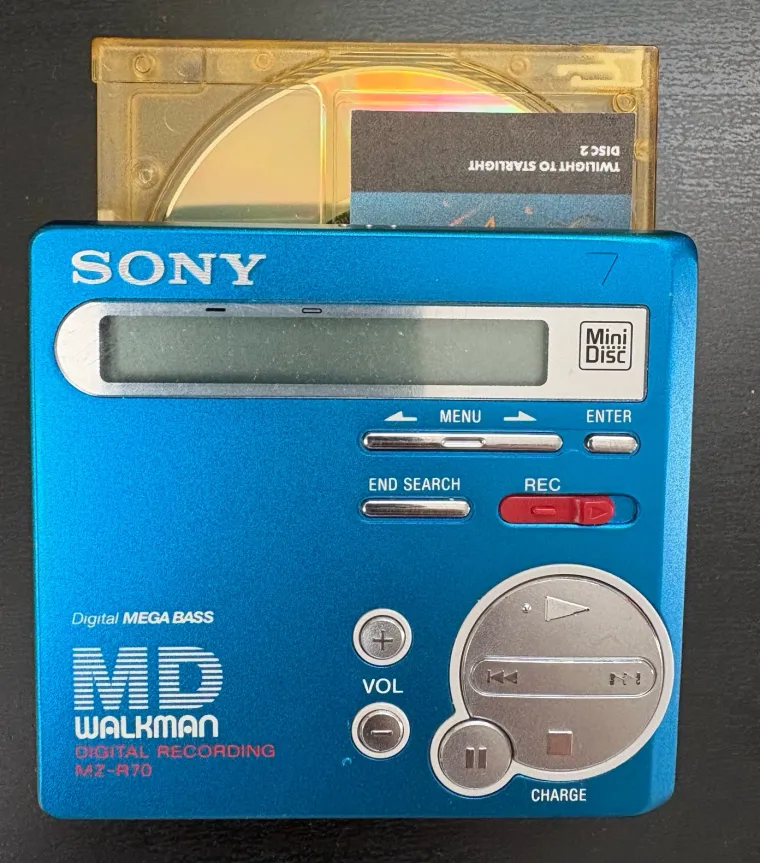
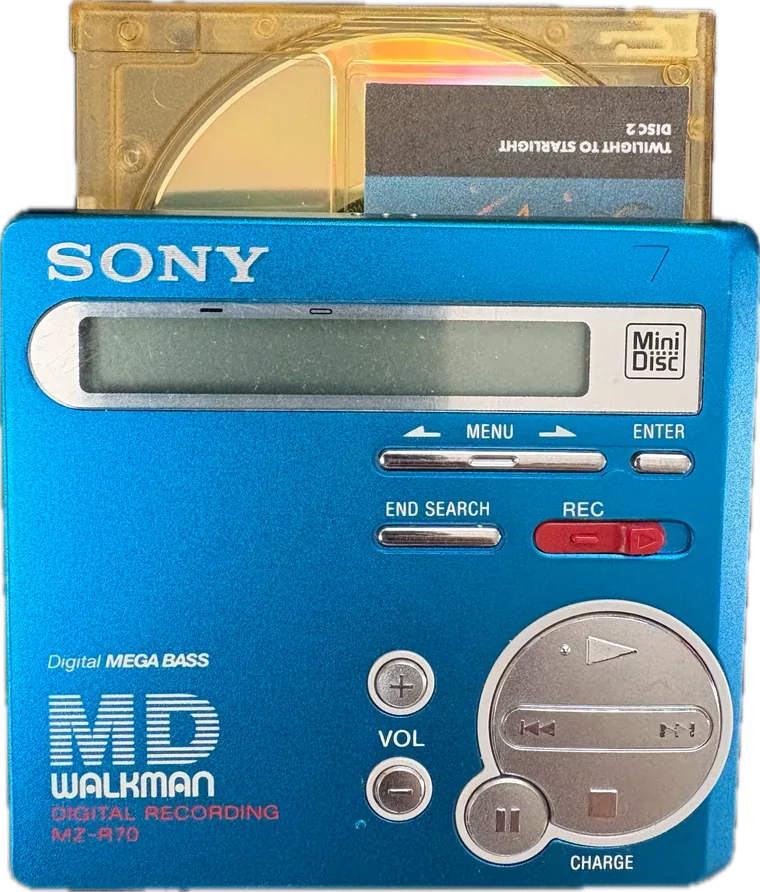
docs(site): cut-out photos, specs handwritten on a label card, no Watch
- The recorders, the disc stack and the blue MD 74 are cut out of their
  backgrounds and laid on the page with a shadow that follows their outline;
  the MD 74 lies on top of the screenshots. The photo with earbuds is gone.
- The spec row's drawn discs are replaced by the blank label card, filled in
  by hand in the same Reenie Beanie hand as the Hi-MD disc label.
- Miniamp is cut out of its desktop photo, just the two windows on white.
- The copy no longer mentions the Apple Watch, the hero's second line or the
  MPL / source-only note.

diff --git a/docs/index.html b/docs/index.html
@@ -28,7 +28,7 @@
 
   <link rel="preconnect" href="https://fonts.googleapis.com">
   <link rel="preconnect" href="https://fonts.gstatic.com" crossorigin>
-  <link rel="stylesheet" href="https://fonts.googleapis.com/css2?family=Antonio:wght@600;700&family=Fraunces:opsz,wght,SOFT,WONK@9..144,500..900,0..100,0..1&family=Libre+Caslon+Text:ital,wght@0,400;0,700;1,400&display=swap">
+  <link rel="stylesheet" href="https://fonts.googleapis.com/css2?family=Antonio:wght@600;700&family=Reenie+Beanie&family=Fraunces:opsz,wght,SOFT,WONK@9..144,500..900,0..100,0..1&family=Libre+Caslon+Text:ital,wght@0,400;0,700;1,400&display=swap">
   <link rel="stylesheet" href="style.css">
 </head>
 <body>
@@ -56,7 +56,7 @@
         <h1 class="hero__wordmark" id="hero-title">Hi-MD</h1>
         <div class="hero__copy">
           <p class="hero__lede">The music player for your own server.</p>
-          <p class="hero__sub">A native app for iPhone and Mac, for Navidrome and other Subsonic and OpenSubsonic servers. iPad, an Apple Watch remote and CarPlay come along too.</p>
+          <p class="hero__sub">A native app for iPhone and Mac, for Navidrome and other Subsonic and OpenSubsonic servers.</p>
         </div>
         <div class="hero__disc">
           <img src="assets/disc.webp" srcset="assets/disc-560.webp 560w, assets/disc.webp 960w" sizes="(min-width: 1100px) 420px, 62vw" width="960" height="960" alt="The Hi-MD disc: a clear MiniDisc cartridge, its label hand-lettered Hi-MD, balanced on one corner." fetchpriority="high">
@@ -67,7 +67,6 @@
           <p class="band__line">The Hi-MD music player for iPhone and Mac.</p>
           <div class="band__cta">
             <a class="button" href="https://github.com/ecliptik/hi-md">Get the source on GitHub</a>
-            <p class="band__note">Free and open source, MPL-2.0. Source only.<a class="fn" href="#note-source" aria-label="Footnote: source only">§</a></p>
           </div>
         </div>
       </div>
@@ -79,16 +78,16 @@
         <p class="release__kind">For immediate release</p>
         <h2 class="release__title" id="release-title">“Hi-MD” Established: The Minidisc Music Player Has Evolved into a Versatile Listening App for the Self-Hosted Era</h2>
         <div class="release__photos">
-          <figure class="print release__photo release__photo--blue">
+          <figure class="cutout release__photo release__photo--blue">
             <img src="assets/photo-walkman-disc.webp" width="760" height="863" loading="lazy" alt="A blue portable MiniDisc recorder with a gold disc, hand-labelled, half-way into its slot.">
           </figure>
-          <figure class="print release__photo release__photo--silver">
+          <figure class="cutout release__photo release__photo--silver">
             <img src="assets/photo-walkman-silver.webp" width="760" height="840" loading="lazy" alt="The same recorder in silver, loading a disc whose label is a hand-drawn illustration.">
           </figure>
         </div>
       </div>
       <div class="release__body">
-        <p><span class="dateline">October 2026 —</span> ecliptik today announced the development of “Hi-MD,” marking an evolution of the Minidisc music player into a versatile listening app that also delivers synced lyrics, an Apple Watch remote and a native Mac app, while maintaining playback compatibility with current Subsonic and Navidrome servers and keeping your music between your devices and your own server.</p>
+        <p><span class="dateline">October 2026 —</span> ecliptik today announced the development of “Hi-MD,” marking an evolution of the Minidisc music player into a versatile listening app that also delivers synced lyrics and a native Mac app, while maintaining playback compatibility with current Subsonic and Navidrome servers and keeping your music between your devices and your own server.</p>
         <p>With the introduction of “Hi-MD,” your Navidrome server is poised to meet the demands of a growing broadband era with a versatile player capable of playing a variety of content, such as music and lyrics, while maintaining high quality sound and resolution.</p>
         <dl class="release__points">
           <div>
@@ -118,9 +117,6 @@
         <figure class="shot shot--mac hall__a">
           <img src="assets/mac-lyrics.webp" width="1200" height="762" loading="lazy" alt="Hi-MD on Mac: Now Playing with synced lyrics beside the album cover.">
         </figure>
-        <figure class="shot hall__w">
-          <img src="assets/photo-walkman-earbuds.webp" width="900" height="1108" loading="lazy" alt="A blue portable MiniDisc recorder on a dark desk, with a pair of white earbuds plugged in.">
-        </figure>
         <figure class="shot shot--mac hall__d">
           <img src="assets/mac-albums.webp" width="1200" height="762" loading="lazy" alt="Hi-MD on Mac: the album grid.">
         </figure>
@@ -129,11 +125,11 @@
         </figure>
       </div>
       <div class="hall__text">
-        <h2 class="hall__title" id="hall-title">Now Hi-MD turns your iPhone, your Mac, and your Watch into a concert hall.</h2>
+        <h2 class="hall__title" id="hall-title">Now Hi-MD turns your iPhone, your Mac, and your car into a concert hall.</h2>
         <div class="hall__column">
           <p>Press play and two decks go to work. Songs meet without a gap, or crossfade into each other, and stream in their original quality on Wi-Fi<a class="fn" href="#note-quality" aria-label="Footnote: original quality">*</a> with a lighter format for each kind of network. A 10-band equalizer takes AutoEq corrections for your headphones, and loudness leveling keeps one album from shouting over the next.</p>
           <p>Lyrics scroll in time, karaoke-style. Discover deals out artist stations, Smart Shuffle, moods and your own Wrapped. Internet radio is a tap away. Album recommendations come from Apple Intelligence on the device, or from Anthropic or OpenAI with your own key,<a class="fn" href="#note-recs" aria-label="Footnote: recommendations">†</a> checked against MusicBrainz and your library.</p>
-          <p>On the Mac it is a native app, with a Music-style library, a full-window Now Playing, a menu bar player and a MiniPlayer that shrinks down to a bar of controls. On your wrist, the Apple Watch is the remote. In the car, CarPlay.<a class="fn" href="#note-carplay" aria-label="Footnote: CarPlay">‡</a></p>
+          <p>On the Mac it is a native app, with a Music-style library, a full-window Now Playing, a menu bar player and a MiniPlayer that shrinks down to a bar of controls. In the car, CarPlay.<a class="fn" href="#note-carplay" aria-label="Footnote: CarPlay">‡</a></p>
           <p class="signoff">The one and only sound of <span class="nowrap">Hi-MD.</span></p>
         </div>
       </div>
@@ -142,7 +138,7 @@
     <!-- Ad 4: more tunes -->
     <section class="tunes wrap" id="offline" aria-labelledby="tunes-title">
       <h2 class="tunes__title" id="tunes-title"><span>You could carry</span> <span>a lot more tunes.</span></h2>
-      <figure class="print tunes__photo">
+      <figure class="cutout tunes__photo">
         <img src="assets/photo-stack.webp" width="900" height="899" loading="lazy" alt="A stack of a dozen MiniDiscs in clear cases, their spines hand-labelled with album titles, an orange disc on top.">
       </figure>
       <div class="tunes__fan" role="group" aria-label="Five iPhone screens from Hi-MD, fanned out like a hand of cards">
@@ -186,40 +182,36 @@
       <div class="specs__scatter" role="group" aria-label="Three iPhone screens from Hi-MD and a blue MiniDisc, scattered on the page">
         <img class="s1" src="screenshots/ios/04-discover.jpg" width="553" height="1200" loading="lazy" alt="Discover: Recommended for You, Stations for You and Smart Shuffle.">
         <img class="s2" src="screenshots/ios/02-now-playing.jpg" width="553" height="1200" loading="lazy" alt="Now Playing, with the cover, controls and volume.">
-        <img class="s3 print" src="assets/photo-md74-blue.webp" width="760" height="727" loading="lazy" alt="A translucent blue MiniDisc with a hand-made label for Massive Attack’s Blue Lines.">
+        <img class="s3 cutout" src="assets/photo-md74-blue.webp" width="760" height="725" loading="lazy" alt="A translucent blue MiniDisc with a hand-made label for Massive Attack’s Blue Lines.">
         <img class="s4" src="screenshots/ios/01-home.jpg" width="553" height="1200" loading="lazy" alt="Home, with playlists and favourite songs.">
       </div>
       <div class="specs__head">
-        <h2 class="specs__title" id="specs-title">Five places to play.</h2>
-        <p class="specs__product">Hi-MD for iPhone, iPad, Mac, Apple Watch and CarPlay.</p>
+        <h2 class="specs__title" id="specs-title">Four places to play.</h2>
+        <p class="specs__product">Hi-MD for iPhone, iPad, Mac and CarPlay.</p>
         <p class="specs__servers">For Navidrome, Subsonic and OpenSubsonic servers.</p>
       </div>
-      <ul class="swatches">
-        <li class="swatch" style="--md: var(--md-pink)">
-          <span class="cart" aria-hidden="true"><span class="cart__num">2</span></span>
-          <p><strong>Decks.</strong> Gapless playback and real crossfades.</p>
-        </li>
-        <li class="swatch" style="--md: var(--md-aqua)">
-          <span class="cart" aria-hidden="true"><span class="cart__num">10</span></span>
-          <p><strong>Equalizer bands.</strong> AutoEq headphone corrections, and loudness leveling.</p>
-        </li>
-        <li class="swatch" style="--md: var(--md-lime)">
-          <span class="cart" aria-hidden="true"><span class="cart__num">4</span></span>
-          <p><strong>Minutes buffered ahead</strong> on both decks, with an offline cache behind them.</p>
-        </li>
-        <li class="swatch" style="--md: var(--md-gold)">
-          <span class="cart" aria-hidden="true"><span class="cart__num">5</span></span>
-          <p><strong>Places to play.</strong> iPhone, iPad, Mac, an Apple Watch remote, and CarPlay.<a class="fn" href="#note-carplay" aria-label="Footnote: CarPlay">‡</a></p>
-        </li>
-        <li class="swatch" style="--md: var(--md-violet)">
-          <span class="cart" aria-hidden="true"><span class="cart__num">27</span></span>
-          <p><strong>Requires iOS 27,</strong> macOS 27 or watchOS 27. Builds with Xcode 27 or later.</p>
-        </li>
-        <li class="swatch" style="--md: var(--md-smoke)">
-          <span class="cart" aria-hidden="true"><span class="cart__num">0</span></span>
-          <p><strong>Accounts and trackers.</strong> Library traffic goes straight to your server.</p>
-        </li>
-      </ul>
+      <figure class="labelcard">
+        <img src="assets/photo-label-card.webp" width="1000" height="1371" loading="lazy" alt="A MiniDisc label sheet, filled in by hand with Hi-MD's specifications.">
+        <figcaption class="labelcard__notes">
+          <p class="labelcard__title">Hi-MD</p>
+          <p class="labelcard__spine">spec sheet</p>
+          <ul class="labelcard__side labelcard__side--a" aria-label="Side A">
+            <li class="labelcard__head">Side A</li>
+            <li>2 decks, gapless</li>
+            <li class="skip-line">real crossfades</li>
+            <li class="skip-line">10 EQ bands, AutoEq</li>
+            <li class="skip-line">4 min buffered ahead</li>
+            <li class="skip-line">offline cache behind it</li>
+          </ul>
+          <ul class="labelcard__side labelcard__side--b" aria-label="Side B">
+            <li class="labelcard__head">Side B</li>
+            <li>4 places to play</li>
+            <li class="skip-line">iOS 27 &amp; macOS 27</li>
+            <li class="skip-line">0 accounts</li>
+            <li class="skip-line">0 trackers</li>
+          </ul>
+        </figcaption>
+      </figure>
     </section>
 
     <!-- Ad 7: the instructions -->
@@ -227,9 +219,6 @@
       <div class="build__head">
         <h2 class="build__title" id="build-title">Build it yourself.</h2>
         <p>Hi-MD is shared as source only: no App Store listing, no TestFlight, no prebuilt builds. You’ll need a Mac with Xcode 27 or later, a Subsonic, OpenSubsonic or Navidrome server and, for a device build, an Apple Developer account. The free personal team is enough, with <a href="https://github.com/ecliptik/hi-md#build-from-source">a few limits</a>.</p>
-        <figure class="print build__photo">
-          <img src="assets/photo-label-card.webp" width="640" height="877" loading="lazy" alt="A blank sheet of MiniDisc labels, its dotted lines waiting for track names.">
-        </figure>
       </div>
       <ol class="steps">
         <li>
@@ -275,7 +264,6 @@ open Minidisc.xcodeproj</code></pre>
       <li id="note-quality"><span class="mark" aria-hidden="true">*</span> Original quality means the file as it sits on your server, so lossless files play lossless. On other networks Hi-MD picks a lighter format.</li>
       <li id="note-recs"><span class="mark" aria-hidden="true">†</span> Anthropic and OpenAI recommendations use your own key. The names of recent and favourite albums, top artists and playlists are sent; the app lists them and asks before the first request. Server credentials are never sent. <a href="https://github.com/ecliptik/hi-md#privacy">Privacy</a></li>
       <li id="note-carplay"><span class="mark" aria-hidden="true">‡</span> A CarPlay build for a device needs Apple’s CarPlay audio entitlement.</li>
-      <li id="note-source"><span class="mark" aria-hidden="true">§</span> There is no App Store listing, TestFlight or prebuilt build. For the original app, see <a href="https://github.com/Loriage/Minidisc">upstream Minidisc</a>.</li>
     </ol>
     <div class="smallprint__cols">
       <p>Hi-MD does not track you and has no accounts. Library and playback traffic goes directly to your server, and credentials are kept only in the Keychain.</p>

diff --git a/docs/style.css b/docs/style.css
@@ -366,17 +366,16 @@ a:hover { text-decoration-thickness: 2px; }
 
 .hall__grid {
   display: grid;
-  grid-template-columns: minmax(0, 1fr) minmax(0, 1fr) minmax(0, 0.585fr);
+  grid-template-columns: minmax(0, 1fr) minmax(0, 0.585fr);
   grid-template-areas:
-    "w a p"
-    "w d p";
+    "a p"
+    "d p";
   gap: 10px;
   align-items: stretch;
 }
 .hall__a { grid-area: a; }
 .hall__d { grid-area: d; }
 .hall__p { grid-area: p; }
-.hall__w { grid-area: w; }
 
 .shot {
   background: #1c1c1e;
@@ -397,10 +396,20 @@ a:hover { text-decoration-thickness: 2px; }
 }
 .print img { width: 100%; }
 
+/* The owner's own gear, lifted off the desk and laid on the page. */
+.cutout {
+  background: none;
+  padding: 0;
+  box-shadow: none;
+  transform: rotate(var(--r, 0deg));
+  filter: drop-shadow(0 16px 18px rgba(0, 0, 0, 0.26)) drop-shadow(0 2px 3px rgba(0, 0, 0, 0.18));
+}
+.cutout img { width: 100%; }
+
 /* an iPhone, by way of a black bezel */
 .phone,
 .tunes__fan img,
-.specs__scatter img:not(.print) {
+.specs__scatter img:not(.cutout) {
   border: 5px solid var(--ink);
   border-radius: 26px;
   background: var(--ink);
@@ -550,7 +559,8 @@ a:hover { text-decoration-thickness: 2px; }
 
 .amp__shot img {
   width: 100%;
-  box-shadow: 0 24px 50px -20px rgba(0, 0, 0, 0.45);
+  /* follows the two windows' outline, not the image's box */
+  filter: drop-shadow(0 22px 26px rgba(0, 0, 0, 0.32));
 }
 
 .amp__text {
@@ -633,7 +643,7 @@ a:hover { text-decoration-thickness: 2px; }
 }
 .specs__scatter .s1 { left: 3%;  top: 6%;  transform: rotate(-11deg); }
 .specs__scatter .s2 { left: 34%; top: 0;   transform: rotate(5deg); z-index: 2; }
-.specs__scatter .s3 { left: 16%; top: 50%; width: 38%; --r: -7deg; z-index: 3; }
+.specs__scatter .s3 { left: 20%; top: 44%; width: 44%; transform: rotate(-9deg); z-index: 3; box-shadow: none; }
 .specs__scatter .s4 { left: 66%; top: 8%;  transform: rotate(12deg); }
 
 .specs__head { grid-area: head; }
@@ -663,83 +673,40 @@ a:hover { text-decoration-thickness: 2px; }
   font-size: 0.9375rem;
 }
 
-.swatches {
+/* The spec sheet: a MiniDisc label card filled in by hand, in the same
+   hand as the label on the Hi-MD disc. Positions are percentages of the
+   card, and type is in container units, so it scales with the photo. */
+.labelcard {
   grid-area: row;
-  list-style: none;
-  padding: 28px 0 0;
-  border-top: 2px solid var(--ink);
-  display: grid;
-  grid-template-columns: repeat(6, minmax(0, 1fr));
-  gap: 28px clamp(16px, 2vw, 32px);
-}
-
-.swatch p {
-  margin-top: 12px;
-  font-size: 0.75rem;
-  line-height: 1.45;
-}
-
-/* A recordable disc, drawn in CSS: tinted clear plastic, a paper label,
-   a metal shutter, the hub, and a printed number. */
-.cart {
+  justify-self: center;
   position: relative;
-  display: block;
-  width: 100%;
-  max-width: 150px;
-  aspect-ratio: 1;
-  border-radius: 7%;
-  background:
-    radial-gradient(circle at 63% 55%, rgba(255, 255, 255, 0.85) 0 5%, rgba(40, 40, 40, 0.55) 5.5% 9%, transparent 9.5%),
-    radial-gradient(circle at 63% 55%, rgba(255, 255, 255, 0.35) 0 34%, transparent 34.5%),
-    linear-gradient(135deg, rgba(255, 255, 255, 0.55), rgba(255, 255, 255, 0) 45%),
-    color-mix(in srgb, var(--md) 70%, white);
-  box-shadow:
-    inset 0 0 0 1px rgba(0, 0, 0, 0.18),
-    inset 0 0 0 5px rgba(255, 255, 255, 0.35),
-    0 6px 14px rgba(0, 0, 0, 0.12);
-  transform: rotate(var(--r, 0deg));
+  width: min(560px, 100%);
+  container-type: inline-size;
+  transform: rotate(-2deg);
+  filter: drop-shadow(0 18px 22px rgba(0, 0, 0, 0.2));
 }
-.swatch:nth-child(odd) .cart { --r: -3deg; }
-.swatch:nth-child(even) .cart { --r: 2deg; }
-
-/* paper label */
-.cart::before {
-  content: "";
+.labelcard img { width: 100%; }
+.labelcard__notes {
   position: absolute;
-  top: 12%;
-  right: 8%;
-  width: 52%;
-  height: 20%;
-  background:
-    repeating-linear-gradient(180deg, transparent 0 32%, rgba(0, 0, 0, 0.18) 32% 34%),
-    #fbfbf7;
-  border-radius: 3px;
-  box-shadow: 0 0 0 1px rgba(0, 0, 0, 0.08);
-}
-
-/* metal shutter */
-.cart::after {
-  content: "";
-  position: absolute;
-  left: 0;
-  top: 37%;
-  width: 36%;
-  height: 26%;
-  background: linear-gradient(180deg, #e9e9e6, #c4c4c0);
-  border-radius: 0 4px 4px 0;
-  box-shadow: inset 0 0 0 1px rgba(0, 0, 0, 0.12);
-}
-
-.cart__num {
-  position: absolute;
-  left: 8%;
-  bottom: 4%;
-  font-family: var(--shout);
-  font-weight: 700;
-  font-size: clamp(1.75rem, 3.4vw, 3rem);
+  inset: 0;
+  font-family: "Reenie Beanie", "Bradley Hand", cursive;
+  color: #1d1d3a;
   line-height: 1;
-  color: var(--ink);
 }
+.labelcard__notes p, .labelcard__notes ul { position: absolute; margin: 0; padding: 0; list-style: none; }
+.labelcard__title { left: 12%; top: 13.5%; font-size: 13cqw; transform: rotate(-3deg); }
+.labelcard__spine { left: 56%; top: 14.6%; font-size: 6cqw; transform: rotate(-1deg); }
+.labelcard__side { top: 0; }
+.labelcard__side li { display: flex; align-items: flex-end; white-space: nowrap; }
+/* Side A: 3 mm lines, starting just under its ruled header */
+.labelcard__side--a { left: 10.5%; top: 41.6%; width: 39%; font-size: 4.1cqw; }
+.labelcard__side--a li { height: 3.77cqw; }
+.labelcard__side--a .skip-line { margin-top: 3.77cqw; }
+/* Side B: 4 mm lines */
+.labelcard__side--b { left: 54.5%; top: 41.4%; width: 39%; font-size: 5.2cqw; }
+.labelcard__side--b li { height: 5cqw; }
+.labelcard__side--b .skip-line { margin-top: 5cqw; }
+.labelcard__head { font-size: 1.25em; margin-bottom: 1.1cqw; }
 
 /* ------------------------------------------------------------------ */
 /* Ad 7: the instructions                                               */
@@ -763,13 +730,6 @@ a:hover { text-decoration-thickness: 2px; }
 }
 
 .build__head p { font-size: 1rem; max-width: 30em; }
-.build__photo {
-  width: min(250px, 60%);
-  margin-top: clamp(32px, 4vw, 56px);
-  margin-left: 8%;
-  --r: -4deg;
-}
-
 .steps {
   list-style: none;
   padding: 0;
@@ -917,7 +877,6 @@ pre:focus-visible { outline-offset: 2px; }
       "tag scatter"
       "row row";
   }
-  .swatches { grid-template-columns: repeat(3, minmax(0, 1fr)); }
 
   .build { grid-template-columns: minmax(0, 1fr); }
   .build__links { grid-column: 1; }
@@ -941,10 +900,8 @@ pre:focus-visible { outline-offset: 2px; }
     grid-template-columns: minmax(0, 0.585fr) minmax(0, 1fr);
     grid-template-areas:
       "p a"
-      "p d"
-      "w w";
+      "p d";
   }
-  .hall__w { aspect-ratio: 4 / 3; }
   .print { padding: 6px; }
   .release__photos { aspect-ratio: 1 / 0.86; }
 
@@ -959,8 +916,7 @@ pre:focus-visible { outline-offset: 2px; }
   .specs__scatter .s1 { left: 5%;  top: 1%; }
   .specs__scatter .s2 { left: 55%; top: 2%; }
   .specs__scatter .s4 { left: 30%; top: 37%; transform: rotate(-4deg); }
-  .specs__scatter .s3 { left: 50%; top: 70%; width: 46%; --r: 6deg; }
-  .swatches { grid-template-columns: repeat(2, minmax(0, 1fr)); }
+  .specs__scatter .s3 { left: 46%; top: 66%; width: 52%; transform: rotate(6deg); }
 
   .steps > li { padding-left: 2.5rem; }
   pre { font-size: 0.8125rem; padding: 14px; }
